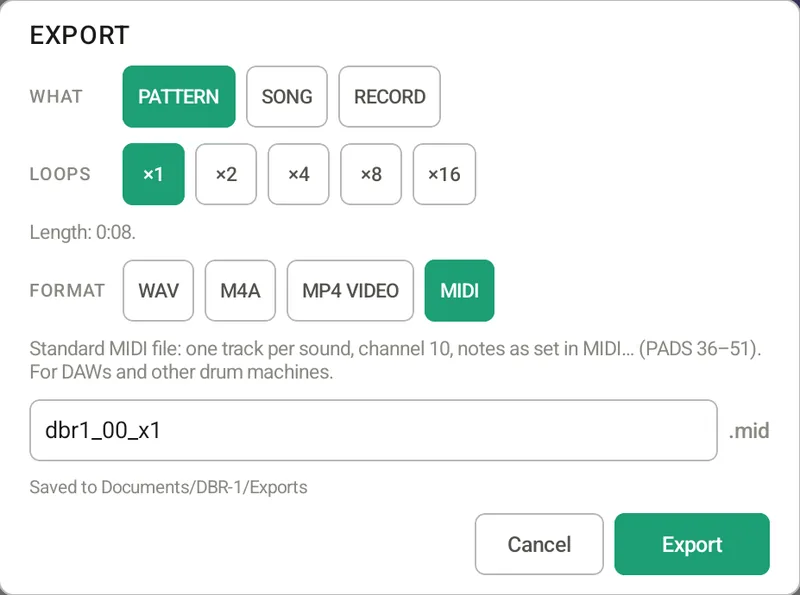
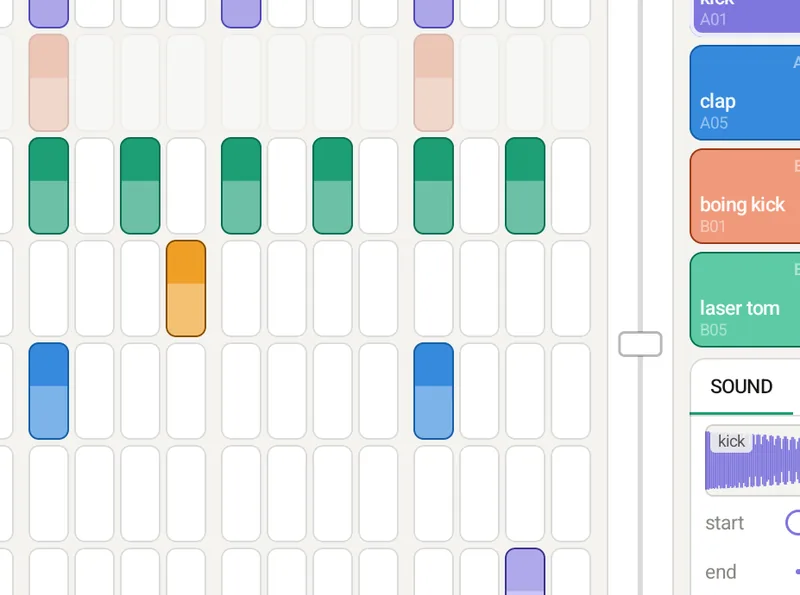
DBR-1 manual: choke, probability/ratchet, stems
Claude-Session: https://claude.ai/code/session_014nrG8LAda3EPv8TQp5hzGz

diff --git a/dbr1/manual/ja.html b/dbr1/manual/ja.html
@@ -128,7 +128,16 @@
 </ul>
 <h3>音の強さ（ベロシティ）</h3>
 <p>ステップを<b>長押し</b>すると振動します。そのまま上下にドラッグすると強さ（0〜127）が変わります。VELOCITY タブでは選択中のトラックの 16 ステップ分をまとめて編集できます。</p>
-<figure class="small"><img src="img/tab_velocity.webp" alt="VELOCITY タブ"><figcaption>VELOCITY タブ。下段の FIXED / POSITION はパッドの強さ（→ <a href="#rec">4</a>）</figcaption></figure>
+<figure class="small"><img src="img/tab_velocity.webp" alt="VELOCITY タブ"><figcaption>VELOCITY タブ（PROBABILITY を選んだところ）。下段の FIXED / POSITION はパッドの強さ（→ <a href="#rec">4</a>）</figcaption></figure>
+<h3 id="probability">確率とラチェット</h3>
+<p>VELOCITY タブの上の 3 つのボタンで、バーで描くものを切り替えます。どれも選択中のトラックのステップごとの値で、パターンと一緒に保存されます（↶ で戻せます）。</p>
+<table>
+<tr><th>ボタン</th><th>はたらき</th></tr>
+<tr><td>VELOCITY</td><td>強さ（0〜127）</td></tr>
+<tr><td>PROBABILITY</td><td>そのステップが鳴る確率（0〜100%、5% 刻み）。毎回少しずつ違うフレーズになり、同じパターンでも飽きにくくなります。100% 未満のステップは右上に三角が付きます</td></tr>
+<tr><td>RATCHET</td><td>1 ステップを 1〜4 回に分けて鳴らします（ハイハットの細かい連打やロールに）。2 回以上のステップには上に回数の点が付きます。swing・3 連符のトラックでも、そのステップの長さを等分します</td></tr>
+</table>
+<div class="tip">確率は再生のたびに変わります。書き出し（PATTERN / SONG）でも確率どおりに鳴り、ステムとまとめた音（mix）は同じ所で鳴ります。MIDI ファイルには確率を使わず全部のノートを書き、ラチェットは分けて書きます。</div>
 <h3>長さとページ</h3>
 <p><span class="key">LEN</span> をタップするとメニューが開き、パターンの長さを 1〜64 ステップ（1 ステップ = 16 分音符）で選べます。− / + で 1 ずつ、よく使う長さはボタンで選びます。長くすると、今の内容をくり返して埋めます。</p>
 <div class="tip">4/4 以外の拍子（変拍子を含む）は、拍子に合わせて長さを変えます。3/4 拍子 = 12、7/8 拍子 = 14、5/4 拍子 = 20、7/4 拍子 = 28 ステップ。最後のページの長さの外のステップは薄く表示され、打ち込めません。メトロノームはパターンの頭で数え直すので、頭がいつも強拍になります。</div>
@@ -210,6 +219,7 @@
 <tr><td>pitch</td><td>音の高さ（−12〜+12 半音。音の長さも変わります）</td></tr>
 <tr><td>decay</td><td>音の消え方（127 = 最後まで鳴らす）</td></tr>
 <tr><td>ONE SHOT / GATE / BAR</td><td>鳴り方（タップで切り替え）。ONE SHOT = 最後まで鳴らす、GATE = 1 ステップ分で止める、BAR = パターンの終わりで止める。長いループやボーカルを小節に合わせて止めたいときに</td></tr>
+<tr><td>CHOKE</td><td>チョークグループ（タップで OFF → 1 → 2 → 3 → 4）。同じ番号のトラックのどれかが鳴ると、ほかのトラックの音は約 5ms で止まります。例: クローズドハットとオープンハットを同じ番号にすると、クローズドハットでオープンハットの余韻が止まります（本物のハイハットと同じ）。キットの設定として保存されます</td></tr>
 </table>
 </div>
 </div>
@@ -447,6 +457,7 @@
 <tr><td>M4A</td><td>AAC 256kbps。小さいので LINE・Discord・メール・クラウドに</td></tr>
 <tr><td>MP4 VIDEO</td><td>PATTERN / SONG はパターンの画像付きの動画（720×720）、RECORD は画面録画。X・Instagram・TikTok など、動画で投稿する SNS に</td></tr>
 <tr><td>MIDI</td><td>スタンダード MIDI ファイル（PATTERN / SONG のみ）。DAW やほかのリズムマシンで続きを作るときに。音ごとに 1 トラック（名前はトラック名）、すべて ch 10。ノート番号は MIDI… の NOTES の設定（PADS 36–51 / GM DRUMS）。swing・トラックごとの長さも入り、ミュート中（ソロのときはソロ以外）のトラックは入りません</td></tr>
+<tr><td>STEMS</td><td>ZIP（PATTERN / SONG のみ）。まとめた音（00_mix.wav）と、ステップのあるトラックを 1 つずつ（01_A01_kick.wav …）の WAV（16bit・48kHz ステレオ）。各トラックは自分のリバーブ・ディレイ・FX も入った音で、全部同じ長さ・0:00 から始まるので、DAW に並べるだけでそろいます。ミュート中のトラックは入りません。トラックの数だけ書き出すので、少し時間がかかります</td></tr>
 </table>
 <figure class="small"><img src="img/recording_bar.webp" alt="録音中のバー"><figcaption>録音・録画中は左上に経過時間と <span class="key">■ STOP</span>（このバーは動画に映りません）</figcaption></figure>
 <p>PATTERN と SONG は、最後にリバーブ・ディレイの余韻が入ります。ファイルは <b>DBR-1/Exports</b> に保存され、終わったら <span class="key">Share</span> でそのまま SNS やメールに送れます。</p>
@@ -538,6 +549,7 @@
 <tr><td>パターン</td><td>100（00〜99）。1 パターン 1〜64 ステップ（16 分音符）。トラックごとに 1/16 / 1/16T / 1/8T</td></tr>
 <tr><td>トラックごとの長さ</td><td>1〜パターンの長さ（最大 64）ステップ（AUTO = パターンに合わせる）</td></tr>
 <tr><td>ベロシティ</td><td>0〜127（ステップごと）</td></tr>
+<tr><td>確率・ラチェット</td><td>確率 0〜100%（5% 刻み）、ラチェット 1〜4 回（ステップごと）</td></tr>
 <tr><td>スウィング</td><td>0〜100（パターンごと。100 で裏の 16 分音符が半ステップ遅れる）</td></tr>
 <tr><td>テンポ</td><td>20〜300 BPM</td></tr>
 <tr><td>ソング</td><td>99 行まで。1 行 = パターン × くり返し 1〜99 回</td></tr>
@@ -562,6 +574,7 @@
 <tr><td>デモソング</td><td>4 曲（Sequence Yard / Let's Play Sequence / Yard Lights / Haze Yard、各 約 2 分）</td></tr>
 <tr><td>同時発音</td><td>トラックごとに 1 音（次の音で前の音を短くフェードして止める）</td></tr>
 <tr><td>鳴り方</td><td>ONE SHOT / GATE（1 ステップ）/ BAR（パターンの終わりまで）。STOP で全音停止</td></tr>
+<tr><td>チョークグループ</td><td>4 つ（同じグループの音が鳴ると約 5ms で止める）</td></tr>
 <tr><td>start / end</td><td>0〜127（再生する範囲）</td></tr>
 <tr><td>pitch</td><td>−12〜+12 半音（再生速度を変える方式）</td></tr>
 <tr><td>decay</td><td>約 10ms〜2 秒、127 = 減衰なし</td></tr>
@@ -590,7 +603,7 @@
 <tr><td>自動保存</td><td>編集の 3 秒後とアプリを閉じたとき（直前の版を予備として保存）</td></tr>
 <tr><td>ファイル</td><td>.dbrproj（プロジェクト。読み込んだ音を含む）/ .dbrpatt（パターン）/ .dbrkit（キット。読み込んだ音を含む）</td></tr>
 <tr><td>保存先</td><td>選んだフォルダの中の DBR-1/Projects・Patterns・Kits・Samples。クラウドは Android の保存・共有から</td></tr>
-<tr><td>書き出し</td><td>パターン（×1〜16）/ ソング / 演奏の録音（最大 10 分）。MIDI（SMF Type 1・96 PPQ・ch 10、パターンとソングのみ）。WAV（16bit・48kHz ステレオ。録音は端末の出力レート）/ M4A（AAC 256kbps）/ MP4（H.264 720×720 30fps + AAC。演奏の録画は画面と同じ縦横比で幅 1280）。DBR-1/Exports に保存</td></tr>
+<tr><td>書き出し</td><td>パターン（×1〜16）/ ソング / 演奏の録音（最大 10 分）。MIDI（SMF Type 1・96 PPQ・ch 10、パターンとソングのみ）。STEMS（ZIP: mix + トラックごとの WAV、パターンとソングのみ）。WAV（16bit・48kHz ステレオ。録音は端末の出力レート）/ M4A（AAC 256kbps）/ MP4（H.264 720×720 30fps + AAC。演奏の録画は画面と同じ縦横比で幅 1280）。DBR-1/Exports に保存</td></tr>
 </table>
 
 <h3>MIDI・オーディオ</h3>

diff --git a/dbr1/manual/en.html b/dbr1/manual/en.html
@@ -128,7 +128,16 @@
 </ul>
 <h3>Velocity</h3>
 <p><b>Long-press</b> a step until it vibrates, then drag up or down to set its velocity (0–127). The VELOCITY tab edits all 16 steps of the selected track at once.</p>
-<figure class="small"><img src="img/tab_velocity.webp" alt="VELOCITY tab"><figcaption>VELOCITY tab. FIXED / POSITION at the bottom set how hard the pads play (→ <a href="#rec">4</a>)</figcaption></figure>
+<figure class="small"><img src="img/tab_velocity.webp" alt="VELOCITY tab"><figcaption>VELOCITY tab (with PROBABILITY chosen). FIXED / POSITION at the bottom set how hard the pads play (→ <a href="#rec">4</a>)</figcaption></figure>
+<h3 id="probability">Probability and ratchets</h3>
+<p>The three buttons at the top of the VELOCITY tab choose what the bars edit. Each is a per-step value of the selected track, saved with the pattern (↶ undoes it).</p>
+<table>
+<tr><th>Button</th><th>What it does</th></tr>
+<tr><td>VELOCITY</td><td>How hard the step plays (0–127)</td></tr>
+<tr><td>PROBABILITY</td><td>The chance that the step plays (0–100%, in 5% steps). The phrase changes a little every time, so a pattern stays fresh. Steps below 100% get a triangle in the top-right corner</td></tr>
+<tr><td>RATCHET</td><td>Splits one step into 1–4 hits (fast hi-hat runs and rolls). Steps with 2 or more get dots along the top. On swung steps and triplet tracks, the hits divide that step's own length</td></tr>
+</table>
+<div class="tip">Probability is rolled again on every pass. Exports (PATTERN / SONG) follow the probabilities too, and stems play on exactly the same steps as the mix. MIDI files ignore probability and write every note; ratchets are written as separate notes.</div>
 <h3>Length and pages</h3>
 <p>Tap <span class="key">LEN</span> to open a menu and set the pattern length from 1 to 64 steps (1 step = a 16th note): − / + change it by one, and buttons pick common lengths. A longer pattern is filled by repeating what is already there.</p>
 <div class="tip">For time signatures other than 4/4 (including odd meters), change the length to match: 3/4 = 12, 7/8 = 14, 5/4 = 20, 7/4 = 28 steps. Steps past the length on the last page are dimmed and cannot be entered. The metronome restarts its count at the top of the pattern, so the downbeat always lands on the first step.</div>
@@ -210,6 +219,7 @@
 <tr><td>pitch</td><td>−12 to +12 semitones (the length changes too)</td></tr>
 <tr><td>decay</td><td>How the sound fades (127 = play to the end)</td></tr>
 <tr><td>ONE SHOT / GATE / BAR</td><td>Play mode (tap to change). ONE SHOT = play to the end, GATE = stop after one step, BAR = stop at the end of the pattern. Handy for long loops and vocals that should stop with the bar</td></tr>
+<tr><td>CHOKE</td><td>Choke group (tap: OFF → 1 → 2 → 3 → 4). When any track in a group plays, the other tracks in that group stop within about 5 ms. Put the closed and open hi-hat in the same group and the closed hat cuts the open hat's ring, like a real hi-hat. Saved with the kit</td></tr>
 </table>
 </div>
 </div>
@@ -446,6 +456,7 @@
 <tr><td>WAV</td><td>Uncompressed (16-bit stereo). Editing in a DAW</td></tr>
 <tr><td>M4A</td><td>AAC 256 kbps. Small files for LINE, Discord, email and cloud storage</td></tr>
 <tr><td>MIDI</td><td>Standard MIDI file (PATTERN / SONG only), for carrying on in a DAW or another drum machine. One track per sound (named after the track), all on channel 10. Note numbers follow NOTES in MIDI… (PADS 36–51 / GM DRUMS). Swing and per-track lengths are included; muted tracks (or non-solo tracks while soloing) are left out</td></tr>
+<tr><td>STEMS</td><td>A ZIP (PATTERN / SONG only) with the full mix (00_mix.wav) and one WAV per track that has steps (01_A01_kick.wav …), 16-bit 48 kHz stereo. Each track includes its own reverb, delay and FX; every file is the same length and starts at 0:00, so they line up as soon as you drop them into a DAW. Muted tracks are left out. It renders once per track, so it takes a little longer</td></tr>
 <tr><td>MP4 VIDEO</td><td>PATTERN / SONG: a video (720×720) with a picture of the pattern. RECORD: a screen recording. For X, Instagram, TikTok and other video-first networks</td></tr>
 </table>
 <figure class="small"><img src="img/recording_bar.webp" alt="Recording bar"><figcaption>While recording, the elapsed time and <span class="key">■ STOP</span> appear at the top left (this bar is not in the video)</figcaption></figure>
@@ -538,6 +549,7 @@
 <tr><td>Patterns</td><td>100 (00–99), each 1–64 steps (16th notes); each track 1/16, 1/16T or 1/8T</td></tr>
 <tr><td>Track length</td><td>1 to the pattern length (up to 64) per track (AUTO = follow the pattern)</td></tr>
 <tr><td>Velocity</td><td>0–127 per step</td></tr>
+<tr><td>Probability / ratchet</td><td>Probability 0–100% (5% steps), ratchet 1–4 hits, per step</td></tr>
 <tr><td>Swing</td><td>0–100 per pattern (100 delays off-beat 16ths by half a step)</td></tr>
 <tr><td>Tempo</td><td>20–300 BPM</td></tr>
 <tr><td>Song</td><td>Up to 99 rows; each row = pattern × 1–99 repeats</td></tr>
@@ -562,6 +574,7 @@
 <tr><td>Demo songs</td><td>4 (Sequence Yard / Let's Play Sequence / Yard Lights / Haze Yard, about 2 minutes each)</td></tr>
 <tr><td>Polyphony</td><td>One sound per track (a new hit quickly fades out the previous one)</td></tr>
 <tr><td>Play modes</td><td>ONE SHOT / GATE (one step) / BAR (until the end of the pattern); STOP silences everything</td></tr>
+<tr><td>Choke groups</td><td>4 (a sound in the group stops the others within about 5 ms)</td></tr>
 <tr><td>start / end</td><td>0–127 (the part of the sample that plays)</td></tr>
 <tr><td>pitch</td><td>−12 to +12 semitones (changes playback speed)</td></tr>
 <tr><td>decay</td><td>About 10 ms – 2 s; 127 = no decay</td></tr>
@@ -590,7 +603,7 @@
 <tr><td>Autosave</td><td>3 seconds after an edit and when the app closes (the previous version is kept as a backup)</td></tr>
 <tr><td>Files</td><td>.dbrproj (project, includes loaded sounds) / .dbrpatt (pattern) / .dbrkit (kit, includes loaded sounds)</td></tr>
 <tr><td>Location</td><td>DBR-1/Projects, Patterns, Kits and Samples inside the folder you choose; cloud via Android's save and share screens</td></tr>
-<tr><td>Export</td><td>Pattern (×1–16) / song / live recording (up to 10 minutes). MIDI (SMF type 1, 96 PPQ, channel 10; pattern and song only). WAV (16-bit, 48 kHz stereo; recordings use the device's output rate) / M4A (AAC 256 kbps) / MP4 (H.264 720×720 30 fps + AAC; screen recordings are 1280 wide in the screen's aspect ratio). Saved in DBR-1/Exports</td></tr>
+<tr><td>Export</td><td>Pattern (×1–16) / song / live recording (up to 10 minutes). MIDI (SMF type 1, 96 PPQ, channel 10; pattern and song only). STEMS (ZIP: mix + one WAV per track; pattern and song only). WAV (16-bit, 48 kHz stereo; recordings use the device's output rate) / M4A (AAC 256 kbps) / MP4 (H.264 720×720 30 fps + AAC; screen recordings are 1280 wide in the screen's aspect ratio). Saved in DBR-1/Exports</td></tr>
 </table>
 
 <h3>MIDI and audio</h3>
